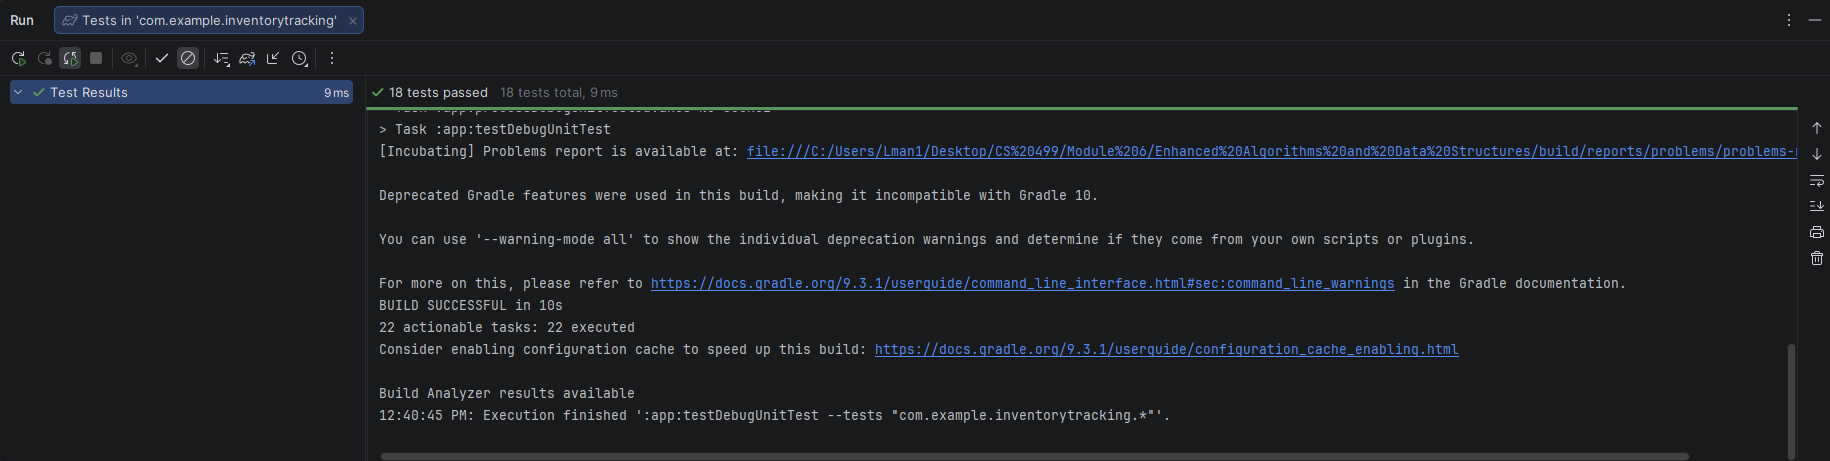
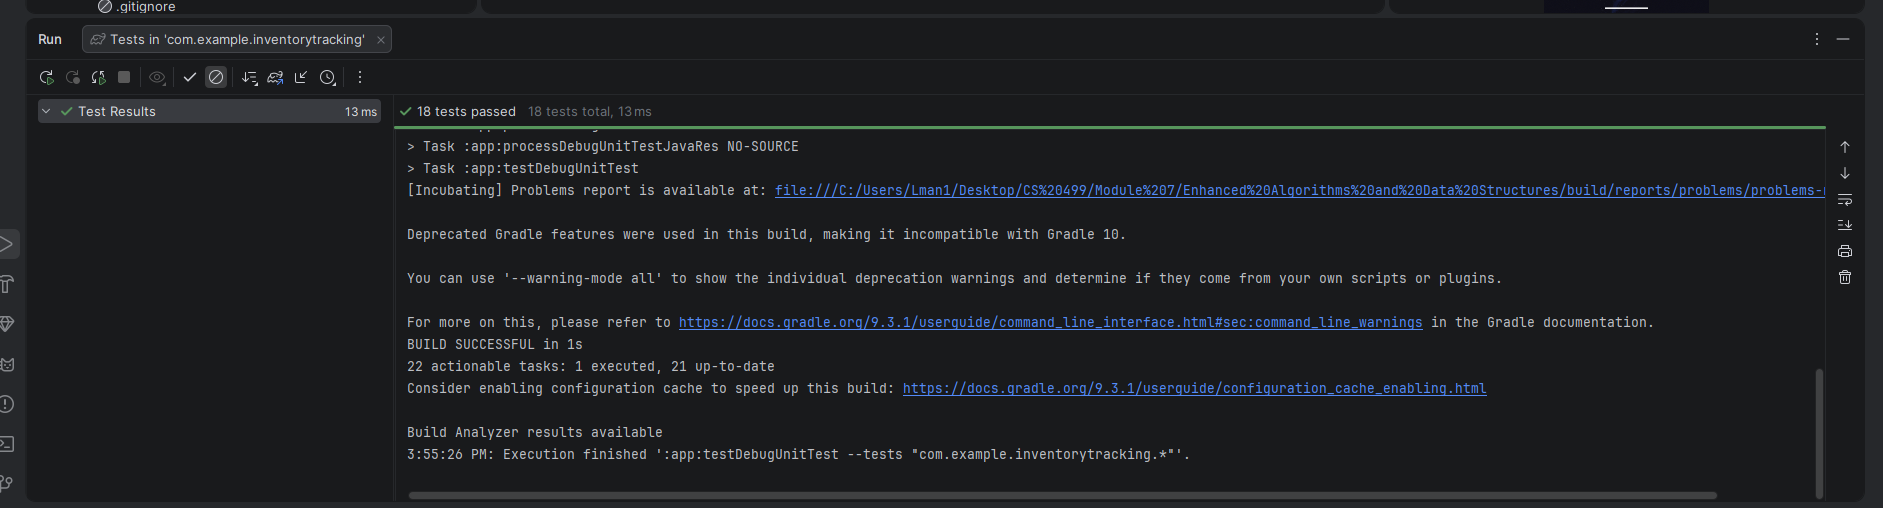
Fix restock priority testing evidence

diff --git a/Enhanced Algorithms and Data Structures/Testing Evidence/Generated Test Reports/Local Unit Tests/com.example.inventorytracking.InventoryOrganizerTest/index.html b/Enhanced Algorithms and Data Structures/Testing Evidence/Generated Test Reports/Local Unit Tests/com.example.inventorytracking.InventoryOrganizerTest/index.html
@@ -59,7 +59,7 @@
 </td>
 <td>
 <div class="infoBox duration">
-<div class="counter">0.006s</div>
+<div class="counter">0.009s</div>
 <p>duration</p>
 </div>
 </td>
@@ -103,7 +103,7 @@
 <td>1</td>
 <td>0</td>
 <td>0</td>
-<td>0.004s</td>
+<td>0.008s</td>
 <td class="success">100%</td>
 </tr>
 <tr>
@@ -112,7 +112,7 @@
 <td>1</td>
 <td>0</td>
 <td>0</td>
-<td>0.001s</td>
+<td>0s</td>
 <td class="success">100%</td>
 </tr>
 <tr>
@@ -125,8 +125,8 @@
 <td class="success">100%</td>
 </tr>
 <tr>
-<td class="success">sortingUsesAtoZLowQuantityAndGreatestShortage</td>
-<td class="path" hidden="">sortingUsesAtoZLowQuantityAndGreatestShortage</td>
+<td class="success">sortingUsesAtoZLowQuantityAndLowestQuantityRestockPriority</td>
+<td class="path" hidden="">sortingUsesAtoZLowQuantityAndLowestQuantityRestockPriority</td>
 <td>1</td>
 <td>0</td>
 <td>0</td>
@@ -155,7 +155,7 @@
 <input id="line-wrapping-toggle" type="checkbox" autocomplete="off"/>
 </label>
 </div>Generated by 
-<a href="https://www.gradle.org">Gradle 9.3.1</a> at Oct 10, 2026, 12:40:44 PM</p>
+<a href="https://www.gradle.org">Gradle 9.3.1</a> at Oct 16, 2026, 3:55:26 PM</p>
 </div>
 </div>
 </body>

diff --git a/Enhanced Algorithms and Data Structures/Testing Evidence/Generated Test Reports/Local Unit Tests/com.example.inventorytracking.InputValidatorTest/index.html b/Enhanced Algorithms and Data Structures/Testing Evidence/Generated Test Reports/Local Unit Tests/com.example.inventorytracking.InputValidatorTest/index.html
@@ -130,7 +130,7 @@
 <td>1</td>
 <td>0</td>
 <td>0</td>
-<td>0s</td>
+<td>0.001s</td>
 <td class="success">100%</td>
 </tr>
 <tr>
@@ -157,7 +157,7 @@
 <td>1</td>
 <td>0</td>
 <td>0</td>
-<td>0.001s</td>
+<td>0s</td>
 <td class="success">100%</td>
 </tr>
 <tr>
@@ -166,7 +166,7 @@
 <td>1</td>
 <td>0</td>
 <td>0</td>
-<td>0.001s</td>
+<td>0.002s</td>
 <td class="success">100%</td>
 </tr>
 <tr>
@@ -209,7 +209,7 @@
 <input id="line-wrapping-toggle" type="checkbox" autocomplete="off"/>
 </label>
 </div>Generated by 
-<a href="https://www.gradle.org">Gradle 9.3.1</a> at Oct 10, 2026, 12:40:44 PM</p>
+<a href="https://www.gradle.org">Gradle 9.3.1</a> at Oct 16, 2026, 3:55:26 PM</p>
 </div>
 </div>
 </body>

diff --git a/Enhanced Algorithms and Data Structures/Testing Evidence/Generated Test Reports/Local Unit Tests/index.html b/Enhanced Algorithms and Data Structures/Testing Evidence/Generated Test Reports/Local Unit Tests/index.html
@@ -56,7 +56,7 @@
 </td>
 <td>
 <div class="infoBox duration">
-<div class="counter">0.690s</div>
+<div class="counter">0.600s</div>
 <p>duration</p>
 </div>
 </td>
@@ -104,7 +104,7 @@
 <td>6</td>
 <td>0</td>
 <td>0</td>
-<td>0.006s</td>
+<td>0.009s</td>
 <td class="success">100%</td>
 </tr>
 </table>
@@ -120,7 +120,7 @@
 <input id="line-wrapping-toggle" type="checkbox" autocomplete="off"/>
 </label>
 </div>Generated by 
-<a href="https://www.gradle.org">Gradle 9.3.1</a> at Oct 10, 2026, 12:40:44 PM</p>
+<a href="https://www.gradle.org">Gradle 9.3.1</a> at Oct 16, 2026, 3:55:26 PM</p>
 </div>
 </div>
 </body>

diff --git a/Enhanced Algorithms and Data Structures/app/src/test/java/com/example/inventorytracking/InventoryOrganizerTest.java b/Enhanced Algorithms and Data Structures/app/src/test/java/com/example/inventorytracking/InventoryOrganizerTest.java
@@ -57,21 +57,21 @@ public class InventoryOrganizerTest {
     }
 
     @Test
-    public void sortingUsesAtoZLowQuantityAndGreatestShortage() {
+    public void sortingUsesAtoZLowQuantityAndLowestQuantityRestockPriority() {
         assertEquals(Arrays.asList(labels, bolts, tape, boxes), organizer.visibleItems("",
                 InventoryOrganizer.StockFilter.ALL, InventoryOrganizer.SortOption.NAME));
         assertEquals(Arrays.asList(bolts, boxes, labels, tape), organizer.visibleItems("",
                 InventoryOrganizer.StockFilter.ALL, InventoryOrganizer.SortOption.SKU));
         assertEquals(Arrays.asList(boxes, tape, labels, bolts), organizer.visibleItems("",
                 InventoryOrganizer.StockFilter.ALL, InventoryOrganizer.SortOption.QUANTITY));
-        assertEquals(Arrays.asList(tape, boxes, labels, bolts), organizer.visibleItems("",
+        assertEquals(Arrays.asList(boxes, tape, labels, bolts), organizer.visibleItems("",
                 InventoryOrganizer.StockFilter.ALL,
                 InventoryOrganizer.SortOption.RESTOCK_PRIORITY));
     }
 
     @Test
     public void priorityQueueIncludesOnlyItemsBelowRestockLevel() {
-        assertEquals(Arrays.asList(tape, boxes), organizer.restockPriority());
+        assertEquals(Arrays.asList(boxes, tape), organizer.restockPriority());
         assertFalse(labels.needsRestocking());
         assertEquals(0, labels.getShortage());
     }

diff --git a/Enhanced Algorithms and Data Structures/app/src/main/java/com/example/inventorytracking/InventoryOrganizer.java b/Enhanced Algorithms and Data Structures/app/src/main/java/com/example/inventorytracking/InventoryOrganizer.java
@@ -22,7 +22,10 @@ public final class InventoryOrganizer {
     private static final Comparator<InventoryItem> QUANTITY_ORDER =
             Comparator.comparingInt(InventoryItem::getQuantity).thenComparing(NAME_ORDER);
     private static final Comparator<InventoryItem> RESTOCK_ORDER =
-            Comparator.comparingInt(InventoryItem::getShortage).reversed().thenComparing(NAME_ORDER);
+            Comparator.comparingInt((InventoryItem item) -> item.needsRestocking() ? 0 : 1)
+                    .thenComparingInt(InventoryItem::getQuantity)
+                    .thenComparing(Comparator.comparingInt(InventoryItem::getShortage).reversed())
+                    .thenComparing(NAME_ORDER);
 
     private final List<InventoryItem> items = new ArrayList<>();
     private final Map<String, InventoryItem> itemsBySku = new HashMap<>();
